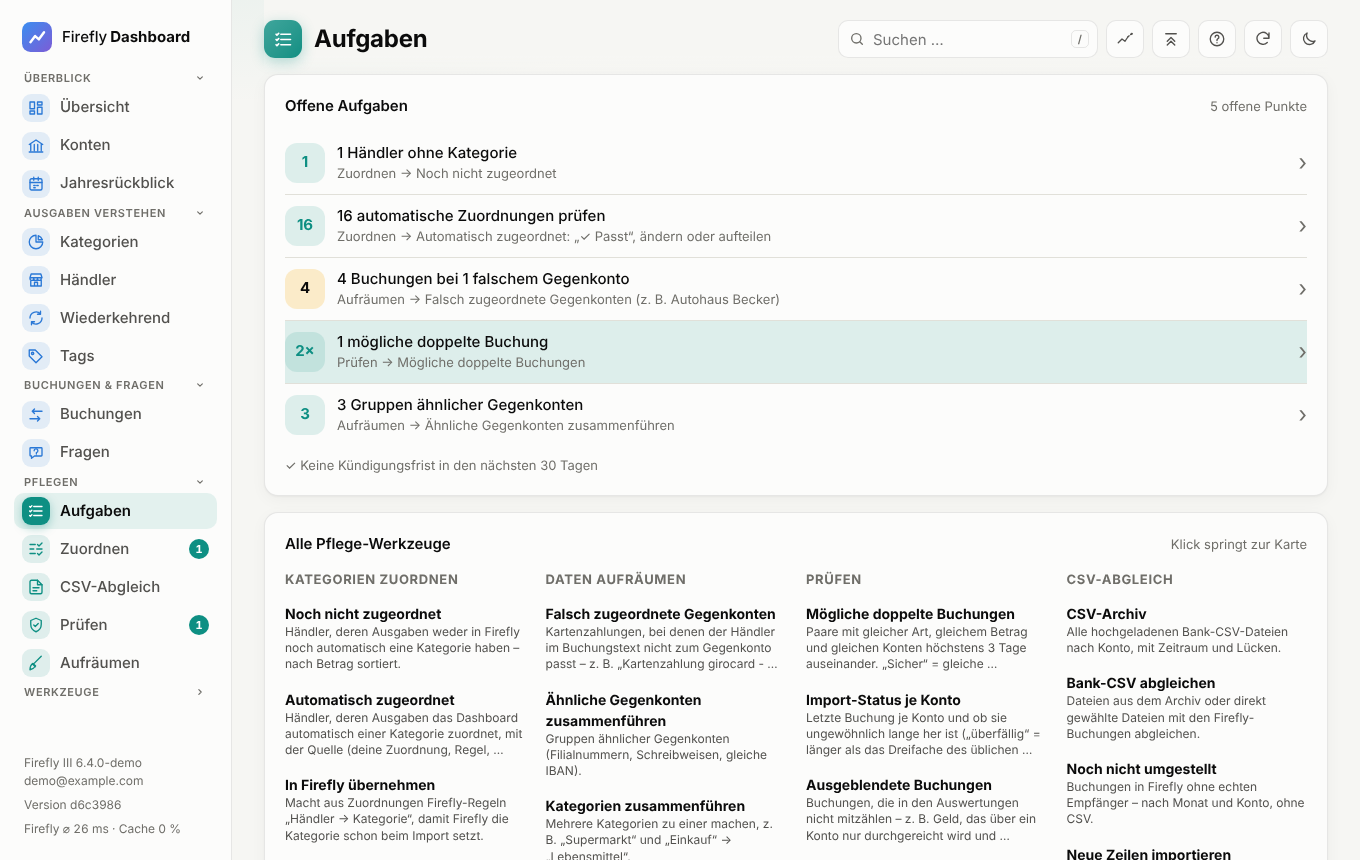
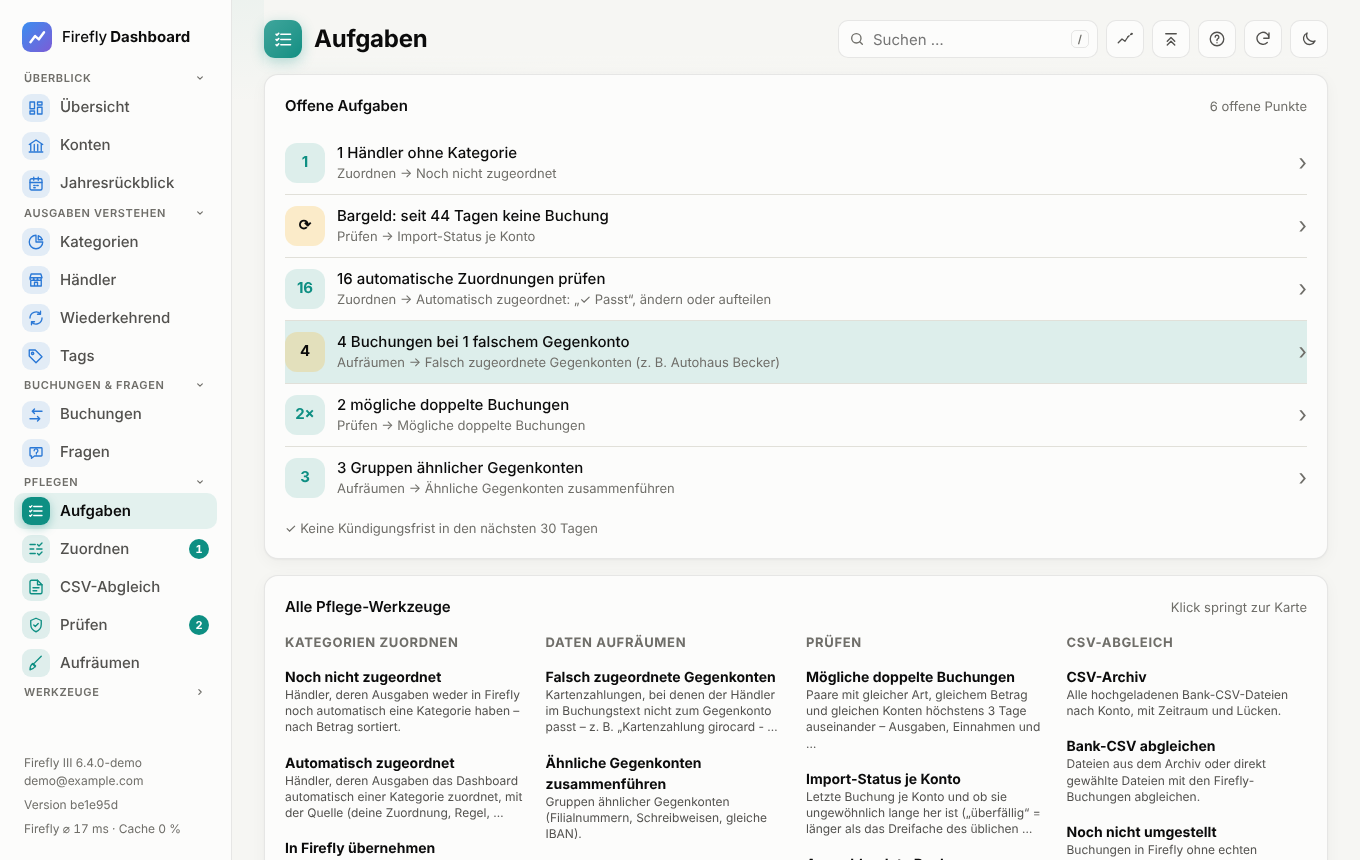
Duplikatsuche findet doppelt importierte Umbuchungen
Die Suche nach doppelten Buchungen (Prüfen, Hinweise, Aufgaben) lud nur
Ausgaben und Einnahmen – Umbuchungen fehlten ganz. Zudem galten zwei
Buchungen mit verschiedener Bank-Referenz immer als echt verschieden; bei
derselben Umbuchung aus der CSV beider eigenen Konten („Dauerauftrags-
belast“ / „Dauerauftragsgutschr“) unterscheiden sich Referenz und Text
aber naturgemäß. Jetzt: Umbuchungen werden mitgeprüft, gleiche Konten +
Betrag + Tag mit unterschiedlichem Text gilt als „wahrscheinlich“ und ist
als „Umbuchung aus beiden Konten“ markiert. Demo-Daten mit einem solchen
Fall, Hilfe und Screenshots aktualisiert.

Claude-Session: https://claude.ai/code/session_017CCe4q4F121UhA8tHqTQzy

diff --git a/public/js/check.js b/public/js/check.js
@@ -13,10 +13,10 @@ const DAY = 86400000;
  * Ausgaben und Einnahmen der letzten 24 Monate (gleicher, vorgewärmter Cache wie „Wiederkehrend“).
  * alle: auch ausgeblendete Buchungen (markiert) – für Prüfen und Aufräumen.
  */
-export function loadHistory({ alle = false, monate = 24 } = {}) {
+export function loadHistory({ alle = false, monate = 24, umbuchungen = false } = {}) {
   const t0 = today();
   const from = startOfMonth(t0, -monate);
-  return Promise.all(['withdrawal', 'deposit'].map((type) =>
+  return Promise.all(['withdrawal', 'deposit', ...(umbuchungen ? ['transfer'] : [])].map((type) =>
     api.getAll('transactions', { start: from, end: t0, type, _alle: alle || undefined })
       .then((groups) => api.flattenTransactions(groups).filter((t) => t.type === type))))
     .then((lists) => lists.flat());
@@ -51,10 +51,14 @@ export function findDuplicates(txs, ok = new Set()) {
         const [a, b] = [list[i], list[j]];
         if (a.groupId === b.groupId || ok.has(pairKey(a, b))) continue;
         const ref = (t) => t.external_id || t.internal_reference || t.sepa_ct_id || '';
-        // unterschiedliche Bank-Referenzen → zwei echte Buchungen
-        if (ref(a) && ref(b) && ref(a) !== ref(b)) continue;
-        const level = ref(a) && ref(a) === ref(b) ? 3 : norm(a.description) === norm(b.description) && dayOf(a) === dayOf(b) ? 2 : 1;
-        pairs.push({ a, b, level, key: pairKey(a, b) });
+        // Umbuchung zwischen eigenen Konten, aus BEIDEN Konto-CSVs importiert: gleiche Konten, gleicher Betrag,
+        // gleicher Tag – die Referenzen und Texte der beiden Seiten unterscheiden sich naturgemäß
+        // („Dauerauftragsbelast“ / „Dauerauftragsgutschr“)
+        const bothSides = a.type === 'transfer' && dayOf(a) === dayOf(b) && norm(a.description) !== norm(b.description);
+        // unterschiedliche Bank-Referenzen → zwei echte Buchungen (außer bei beiden Seiten einer Umbuchung)
+        if (!bothSides && ref(a) && ref(b) && ref(a) !== ref(b)) continue;
+        const level = ref(a) && ref(a) === ref(b) ? 3 : bothSides || (norm(a.description) === norm(b.description) && dayOf(a) === dayOf(b)) ? 2 : 1;
+        pairs.push({ a, b, level, key: pairKey(a, b), bothSides });
       }
     }
   }
@@ -101,7 +105,7 @@ export async function importStatus(history) {
 // Hinweise für die Übersicht
 
 export async function checkHints() {
-  const [history, dismissed] = await Promise.all([loadHistory({ alle: true }), api.loadDismissed()]);
+  const [history, dismissed] = await Promise.all([loadHistory({ alle: true, umbuchungen: true }), api.loadDismissed()]);
   const [dups, status] = await Promise.all([findDuplicates(history, dismissed.duplicates), importStatus(history)]);
   const rows = [];
   const serious = dups.filter((d) => d.level >= 2).length;
@@ -180,8 +184,8 @@ export async function check(view) {
       ${card('c-excl', 'Ausgeblendete Buchungen', { meta: '<span id="c-excl-meta"></span>' })}
     </div>`;
   const $ = (id) => view.querySelector(`#${id}`);
-  const history = loadHistory({ alle: true });
-  excludedCard($('c-excl'), $('c-excl-meta'), history);
+  const history = loadHistory({ alle: true, umbuchungen: true }); // Umbuchungen gehören zur Duplikatsuche (aus beiden Konten importiert)
+  excludedCard($('c-excl'), $('c-excl-meta'), history.then((l) => l.filter((t) => t.type !== 'transfer')));
   backupCard($('c-backup'), $('c-backup-meta'));
 
   fill($('c-import'), () => Promise.all([history.then(importStatus), actionFor('import')]), (el, [status, action]) => {
@@ -232,6 +236,7 @@ export async function check(view) {
           <td class="num">${signedAmount(t)}</td></tr>`;
         return `<tr class="dup-head"><td colspan="3"><span class="badge ${cls}">${label}</span>
             <span class="muted">${esc(money(Math.abs(p.a.amount), p.a.currency_code))} · ${esc(counterparty(p.a))}</span>
+            ${p.bothSides ? '<span class="badge warn" title="Dieselbe Umbuchung aus der CSV beider Konten importiert – eine löschen">Umbuchung aus beiden Konten</span>' : ''}
             <button class="link-btn" data-ok="${esc(p.key)}">Kein Duplikat</button></td></tr>
           ${row(p.a, i * 2)}${row(p.b, i * 2 + 1)}`;
       }).join('')}</tbody></table></div>

diff --git a/public/js/help.js b/public/js/help.js
@@ -195,7 +195,7 @@ export const CARDS = {
   // Prüfen
   'c-import': { title: 'Import-Status je Konto', what: 'Letzte Buchung je Konto und ob sie ungewöhnlich lange her ist („überfällig“ = länger als das Dreifache des üblichen Abstands, mind. 7, höchstens 60 Tage).', app: 'Der Knopf startet eine Automation mit Auslöser „Import starten“ (z. B. deinen Bank-CSV-Workflow).', firefly: 'Das Dashboard selbst ändert nichts. Was der Import-Workflow in Firefly anlegt, bestimmt der Workflow.' },
   'c-backup': { title: 'Datensicherung (Firefly)', what: 'Zeigt, wann Firefly zuletzt gesichert wurde, und startet eine Sicherung per Knopf.', app: 'Beim Öffnen fragt das Dashboard über die Automation „Firefly-Backup“ den Stand ab. „Jetzt sichern“ startet die Sicherung und zeigt das Ergebnis. Die Sicherungen selbst liegen auf dem Firefly-Host (Standard ~/firefly-backups), nicht im Dashboard.', firefly: 'Firefly wird nicht verändert. Der n8n-Workflow (Vorlage n8n/firefly-backup.json) verbindet sich per SSH mit dem Firefly-Host und sichert dort Datenbank (MariaDB/MySQL/Postgres, automatisch erkannt), Anhänge und APP_KEY; alte Sicherungen werden nach 14 Tagen gelöscht. Wiederherstellen: siehe LIESMICH.txt in jeder Sicherung.', tips: ['Gelb markiert, wenn die letzte Sicherung älter als 2 Tage ist.', 'Der APP_KEY ist wichtig: Firefly verschlüsselt Anhänge damit.', 'Bewahre zusätzlich eine Kopie außerhalb des Firefly-Hosts auf (z. B. NAS).'] },
-  'c-dup': { title: 'Mögliche doppelte Buchungen', what: 'Paare mit gleicher Art, gleichem Betrag und gleichen Konten höchstens 3 Tage auseinander. „Sicher“ = gleiche Bank-Referenz, „wahrscheinlich“ = gleicher Text am selben Tag.', app: '„Kein Duplikat“ blendet ein Paar auf allen Geräten aus.', firefly: 'Nichts. Die überzählige Buchung löschst du selbst in Firefly („In Firefly öffnen“ in den Details).' },
+  'c-dup': { title: 'Mögliche doppelte Buchungen', what: 'Paare mit gleicher Art, gleichem Betrag und gleichen Konten höchstens 3 Tage auseinander – Ausgaben, Einnahmen und Umbuchungen. „Sicher“ = gleiche Bank-Referenz, „wahrscheinlich“ = gleicher Text am selben Tag oder dieselbe Umbuchung aus der CSV beider eigenen Konten („Umbuchung aus beiden Konten“, z. B. „Dauerauftragsbelast“ und „Dauerauftragsgutschr“).', app: '„Kein Duplikat“ blendet ein Paar auf allen Geräten aus.', firefly: 'Nichts. Die überzählige Buchung löschst du selbst in Firefly („In Firefly öffnen“ in den Details).' },
   'c-excl': { title: 'Ausgeblendete Buchungen', what: 'Buchungen, die in den Auswertungen nicht mitzählen – z. B. Geld, das über ein Konto nur durchgereicht wird und Einnahmen und Ausgaben sonst doppelt aufbläht.', app: 'Einzelne Buchung: in ihren Details (Zeile anklicken) „Diese Buchung ausblenden“. Alle mit einem Gegenkonto: ebenfalls in den Details oder hier im Formular, wahlweise nur Ein- oder Ausgänge. Wirkt auf Übersicht, Kategorien, Tags, Händler, Jahresrückblick, Labor, Wiederkehrend, Fragen, Hinweise und Berichte; die Regeln liegen auf dem Server und gelten auf allen Geräten.', firefly: 'Nichts – Firefly bleibt unverändert. Unter „Buchungen“, im CSV-Abgleich, beim Prüfen und Aufräumen stehen ausgeblendete Buchungen weiter (in der Buchungsliste durchgestrichen markiert). Vermögen und Kontostände ändern sich nicht.', tips: ['„Einblenden“ nimmt eine Regel sofort zurück.', 'Umbuchungen zwischen eigenen Konten zählen ohnehin nicht als Einnahme/Ausgabe – Ausblenden braucht es nur, wenn das Durchgangskonto in Firefly kein eigenes Konto ist.'] },
   // Labor
   'l-progress': {

diff --git a/mock/firefly-mock.js b/mock/firefly-mock.js
@@ -215,6 +215,9 @@ for (let k = 1; k <= 8; k++) {
   add(d, 'withdrawal', 48.2, 'Beitrag', giro, ext('Musterversicherung AG'), { ...cat, notes: `EREF+B${k}KFZ MREF+MV-KFZ-0815 CRED+DE00ZZZ00000000001 SVWZ+Kfz-Versicherung Vertrag 0815` });
   add(d, 'withdrawal', 12.9, 'Beitrag', giro, ext('Musterversicherung AG'), { ...cat, notes: `EREF+B${k}PHV MREF+MV-PHV-4711 CRED+DE00ZZZ00000000001 SVWZ+Privathaftpflicht Familie Vertrag 4711` });
 }
+// Dieselbe Umbuchung aus der CSV beider eigenen Konten importiert (Belastung + Gutschrift) – für die Duplikatsuche
+add(addDays(today, -12), 'transfer', 30, 'Dauerauftragsbelast', giro, tagesgeld);
+add(addDays(today, -12), 'transfer', 30, 'Dauerauftragsgutschr', giro, tagesgeld);
 // Eine aktuelle große Ausgabe (für die Warnungen)
 add(addDays(today, -4), 'withdrawal', 649, 'Neue Waschmaschine', kk, ext('MediaMarkt'), { category: 'Shopping' });
 // Eine doppelt importierte Buchung (für die Dubletten-Erkennung)

diff --git a/public/sw.js b/public/sw.js
@@ -1,7 +1,7 @@
 // Service Worker: App sofort starten (auch offline) und zuletzt geladene
 // Daten zeigen, wenn der Server nicht erreichbar ist.
 
-const VERSION = 'ffd-98';
+const VERSION = 'ffd-99';
 const SHELL = `${VERSION}-shell`;
 const DATA = `${VERSION}-data`;
 const MAX_DATA_ENTRIES = 400;
